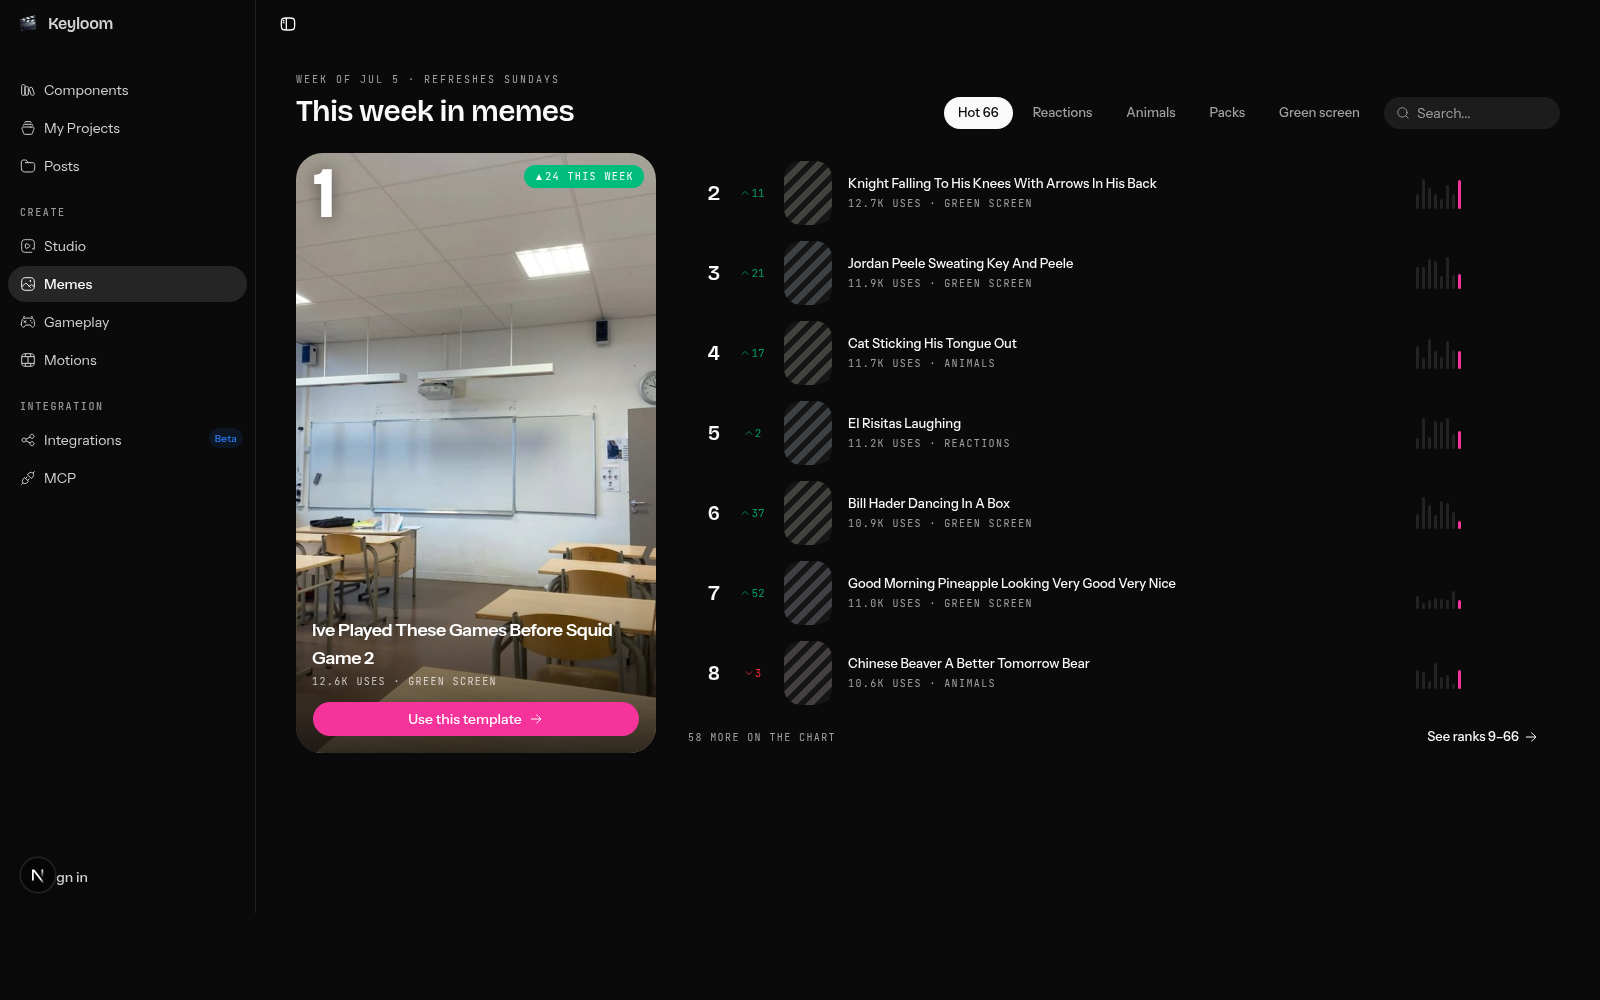
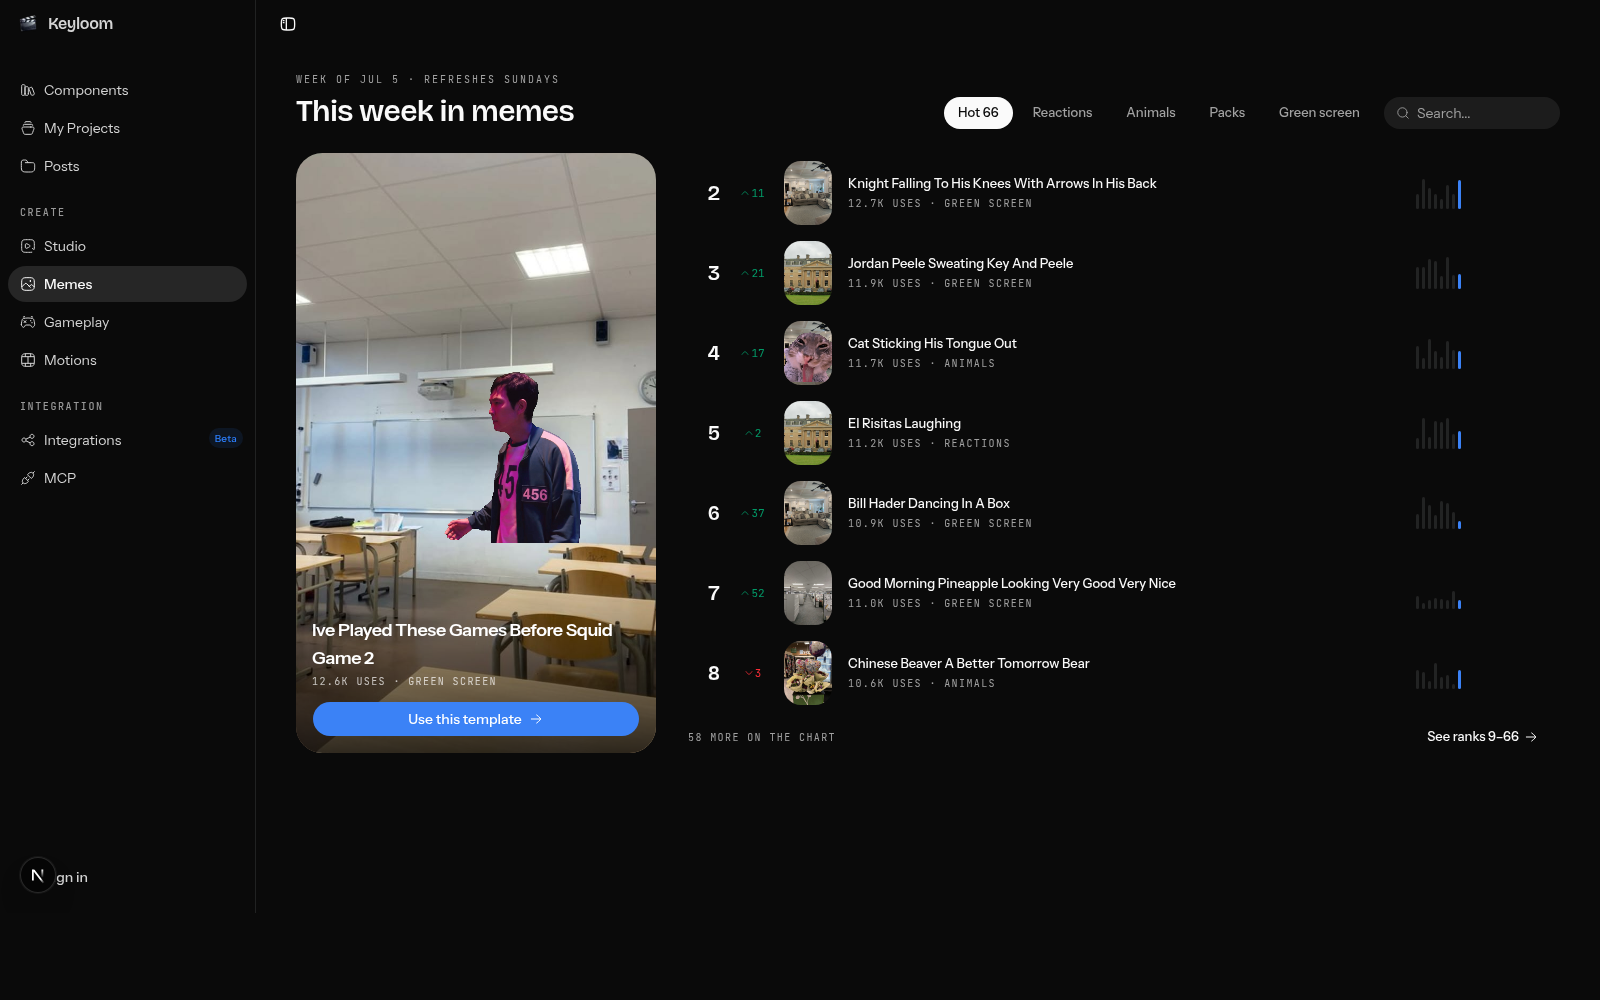
style(memes): theme accent, visible row thumbnails, cleaner hero
- swap the pink accent for the theme primary (CTA, sparkline, NEW tag)
- row thumbnails show the template's background and clip first frame
  instead of a striped placeholder that only revealed on hover
- drop the rank numeral and movement badge overlays from the hero card

diff --git a/apps/web/features/memes/components/meme-chart.tsx b/apps/web/features/memes/components/meme-chart.tsx
@@ -229,12 +229,6 @@ function ChartHero({
         className="absolute inset-0 size-full object-contain"
       />
 
-      <span className="absolute left-4 top-1 font-heading text-7xl font-bold text-white [text-shadow:0_2px_16px_rgba(0,0,0,0.45)]">
-        {entry.rank}
-      </span>
-
-      <HeroBadge entry={entry} />
-
       <div className="absolute inset-x-0 bottom-0 flex flex-col gap-3 bg-gradient-to-t from-black/80 via-black/40 to-transparent p-4 pt-14">
         <div>
           <h2 className="text-lg font-semibold tracking-tight text-white">
@@ -245,7 +239,7 @@ function ChartHero({
           </p>
         </div>
         <Button
-          className="w-full rounded-full bg-pink-500 text-white hover:bg-pink-600"
+          className="w-full rounded-full"
           onClick={() => onSelect(entry.template)}
         >
           Use this template
@@ -253,31 +247,6 @@ function ChartHero({
         </Button>
       </div>
     </section>
-  );
-}
-
-function HeroBadge({ entry }: { entry: ChartEntry }) {
-  const label = entry.isNew
-    ? "New this week"
-    : entry.delta > 0
-      ? `▲${entry.delta} this week`
-      : entry.delta < 0
-        ? `▼${-entry.delta} this week`
-        : "Holding at #1";
-
-  return (
-    <span
-      className={cn(
-        "absolute right-3 top-3 rounded-full px-2.5 py-1 font-mono text-[10px] uppercase tracking-[0.14em] text-white",
-        entry.isNew
-          ? "bg-pink-500"
-          : entry.delta < 0
-            ? "bg-black/50 backdrop-blur-sm"
-            : "bg-emerald-500",
-      )}
-    >
-      {label}
-    </span>
   );
 }
 
@@ -289,6 +258,7 @@ function ChartRow({
   onSelect: (t: MemeTemplate) => void;
 }) {
   const videoRef = useRef<HTMLVideoElement>(null);
+  const bgSrc = backgroundForTemplate(entry.template.id)?.src;
 
   const play = () => {
     videoRef.current?.play().catch(() => {});
@@ -314,21 +284,28 @@ function ChartRow({
       <Movement entry={entry} />
 
       <div className="relative h-16 w-12 shrink-0 overflow-hidden rounded-xl bg-muted/40">
-        <div
-          aria-hidden
-          className="absolute inset-0 dark:opacity-20"
-          style={{
-            backgroundImage: `repeating-linear-gradient(135deg, ${pastelFor(entry.template.id)} 0 6px, transparent 6px 12px)`,
-          }}
-        />
+        {bgSrc ? (
+          // biome-ignore lint/performance/noImgElement: local static preview thumbnail
+          <img
+            src={bgSrc}
+            alt=""
+            className="absolute inset-0 size-full object-cover"
+          />
+        ) : (
+          <div
+            aria-hidden
+            className="absolute inset-0 dark:opacity-15"
+            style={{ backgroundColor: pastelFor(entry.template.id) }}
+          />
+        )}
         <video
           ref={videoRef}
           src={entry.template.src}
           muted
           loop
           playsInline
-          preload="none"
-          className="absolute inset-0 size-full object-contain opacity-0 transition-opacity group-hover:opacity-100"
+          preload="metadata"
+          className="absolute inset-0 size-full object-contain"
         />
       </div>
 
@@ -362,7 +339,7 @@ function ChartRow({
 function Movement({ entry }: { entry: ChartEntry }) {
   if (entry.isNew) {
     return (
-      <span className="w-8 shrink-0 text-center font-mono text-[9px] font-semibold uppercase tracking-[0.1em] text-pink-500">
+      <span className="w-8 shrink-0 text-center font-mono text-[9px] font-semibold uppercase tracking-[0.1em] text-primary">
         New
       </span>
     );
@@ -400,7 +377,7 @@ function Sparkline({ values }: { values: number[] }) {
           key={i}
           className={cn(
             "w-[3px] rounded-full",
-            i === values.length - 1 ? "bg-pink-500" : "bg-border",
+            i === values.length - 1 ? "bg-primary" : "bg-border",
           )}
           style={{ height: `${Math.round(v * 100)}%` }}
         />
